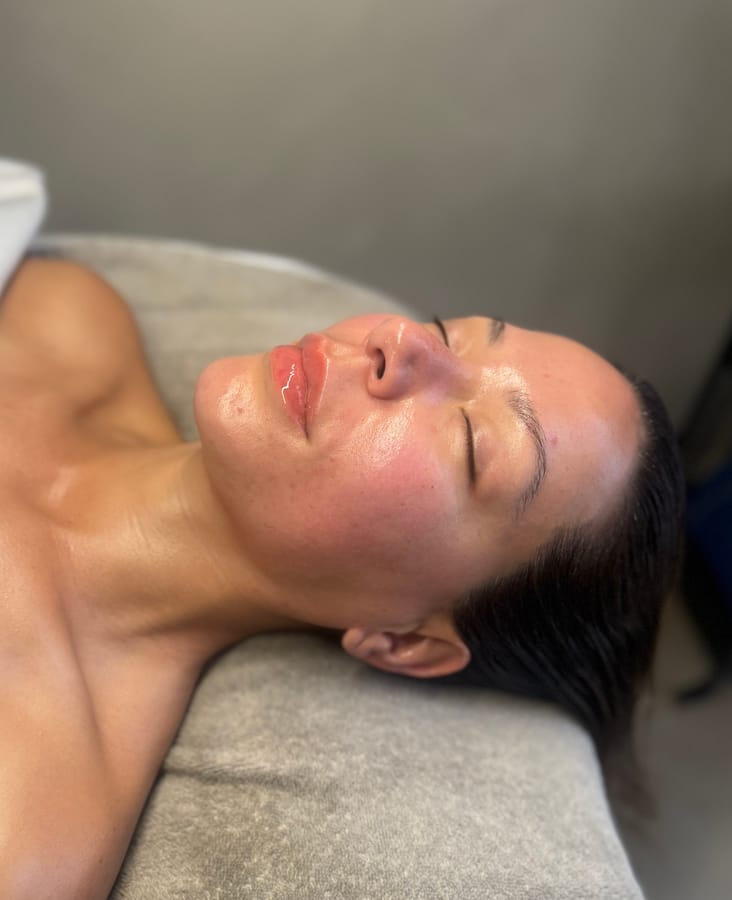
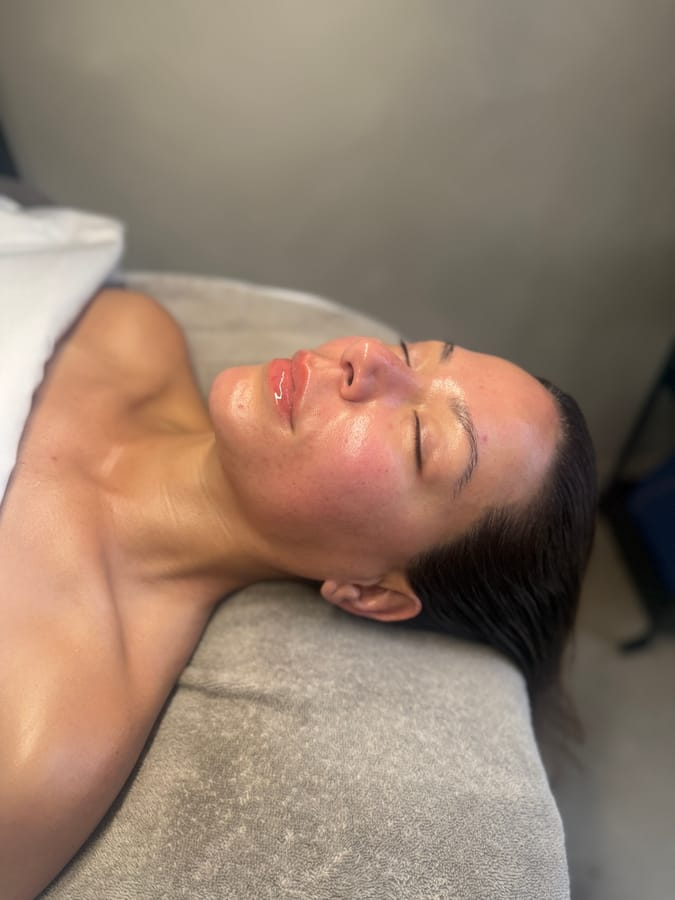
tiktok: gallery now shows 4 before/after pairs, optimize new images

diff --git a/tiktok.html b/tiktok.html
@@ -725,6 +725,14 @@ height="0" width="0" style="display:none;visibility:hidden"></iframe></noscript>
       <div class="tt-ba-box"><img src="/tiktok-images/before-2.jpg" alt="Before facial sculpting session" loading="lazy"><span>Before</span></div>
       <div class="tt-ba-box"><img src="/tiktok-images/after-2.jpg" alt="After facial sculpting session" loading="lazy"><span>After</span></div>
     </div>
+    <div class="tt-ba-pair">
+      <div class="tt-ba-box"><img src="/tiktok-images/before-4.jpg" alt="Before facial sculpting session" loading="lazy"><span>Before</span></div>
+      <div class="tt-ba-box"><img src="/tiktok-images/after-4.jpg" alt="After facial sculpting session" loading="lazy"><span>After</span></div>
+    </div>
+    <div class="tt-ba-pair">
+      <div class="tt-ba-box"><img src="/tiktok-images/before-5.jpg" alt="Before facial sculpting session" loading="lazy"><span>Before</span></div>
+      <div class="tt-ba-box"><img src="/tiktok-images/after-5.jpg" alt="After facial sculpting session" loading="lazy"><span>After</span></div>
+    </div>
   </div>
 </section>
 
